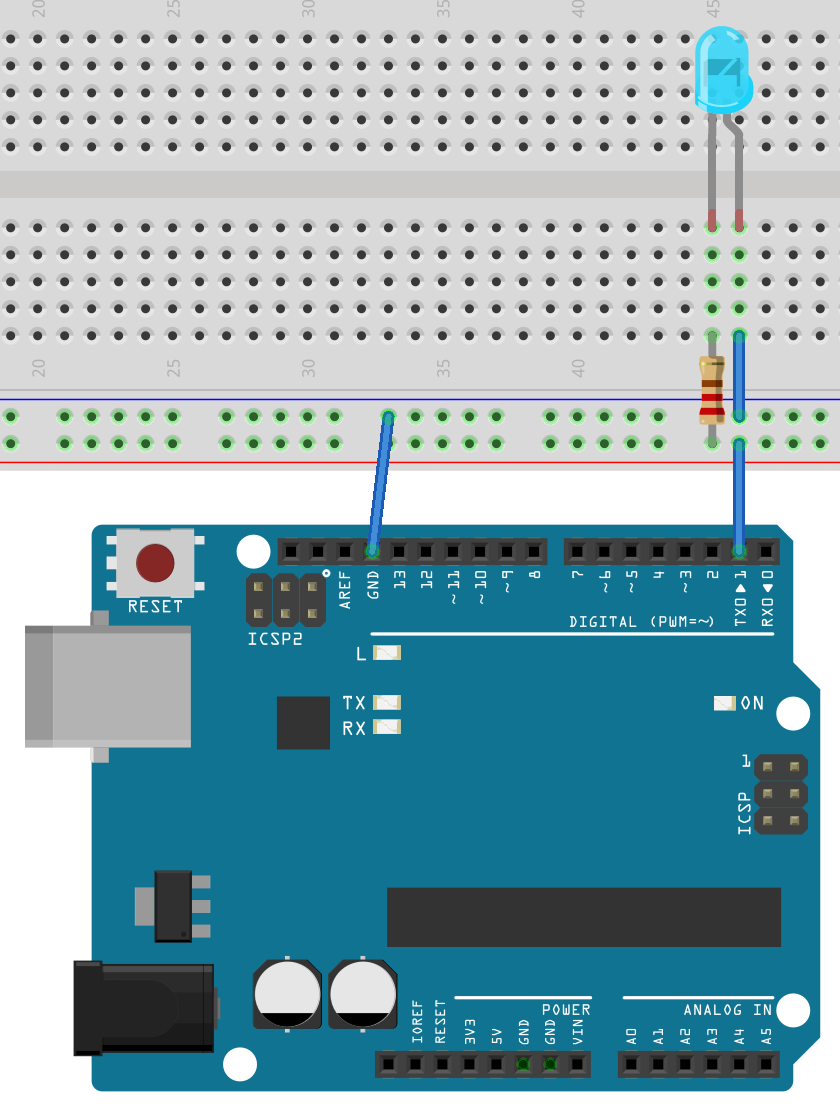
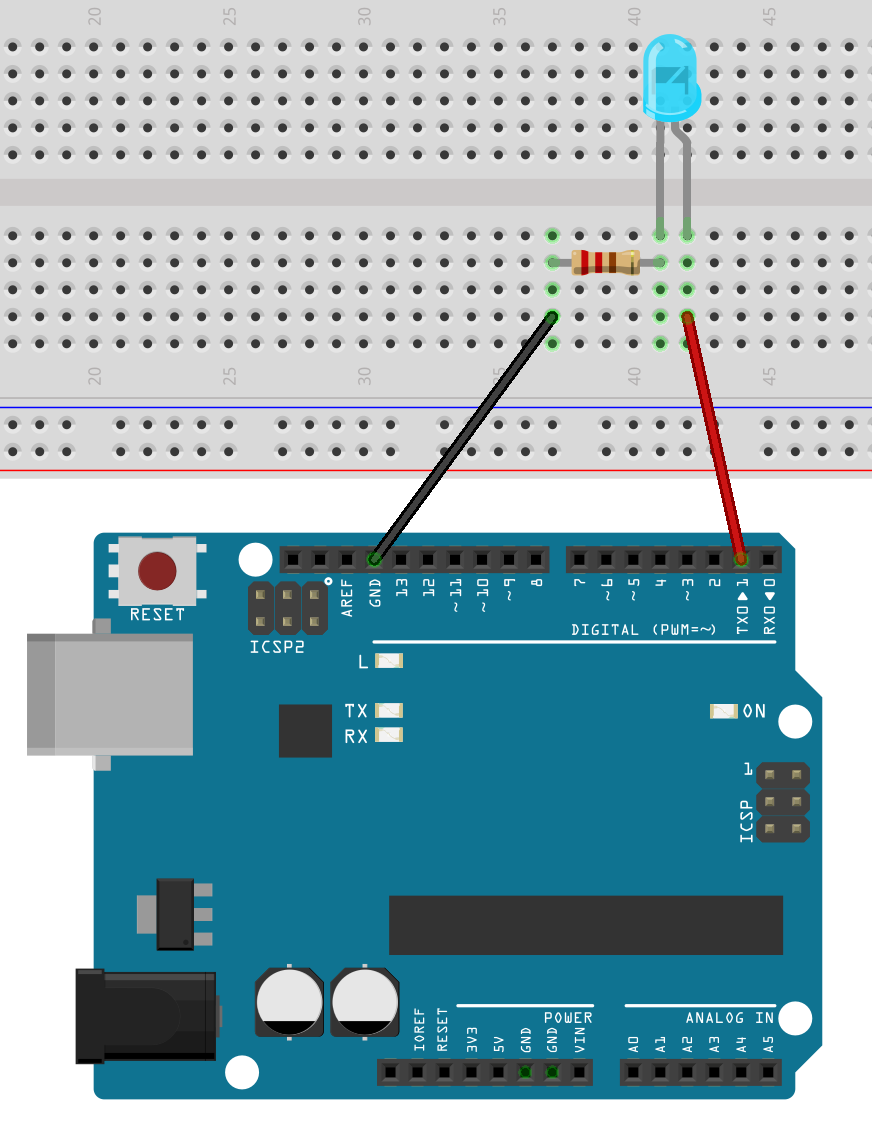
added img, moved fig

Changed region(s): [[0.0, 0.0, 1.0, 1.0], [0.031, 0.4603, 0.2476, 0.6751], [0.031, 0.6444, 0.0929, 0.6751]]

diff --git a/doc/tex/thesis/resultat.tex b/doc/tex/thesis/resultat.tex
@@ -15,6 +15,17 @@
 
         Den data som avses skickas i denna kommunikation består av ett 16 bitars värde, det vill säga två byte. Med en överföringshastighet om 300 baud ger det en teoretisk möjlighet att skicka $\frac{300 \,\textit{baud}}{8 \, bit \cdot 2} = 18,75 \, \text{värden per sekund}$. Den faktiska hastigheten blir något lägre då extra bitar skickas enligt RS-232 protokollet, men överföringshastigheten är inte att anses som ett hinder i denna implementation.
 
+        \begin{figure}[h]
+        \centering
+            \begin{subfigure}[hbt]{0.35\textwidth}
+                \includegraphics[width=\textwidth]{res/img/led}    
+            \end{subfigure}
+            \begin{subfigure}[hbt]{0.35\textwidth}
+                \includegraphics[width=\textwidth]{res/img/resistor}    
+            \end{subfigure}
+        \caption{Schema över sändare/mottagare}\label{fig:schem}
+        \end{figure}
+
 
     % subsection optisk_kommunikation (end)
     

diff --git a/doc/tex/thesis/res/appendix/schematics.tex b/doc/tex/thesis/res/appendix/schematics.tex
@@ -1,6 +1,14 @@
 \section{Schema} % (fold)
 \label{sec:schema}
-\begin{figure}
-    \includegraphics[width=0.5\textwidth]{res/img/led}
-\end{figure}
+    \begin{figure}
+    \centering
+        \begin{subfigure}{0.4\textwidth}
+            \includegraphics[width=\textwidth]{res/img/led}    
+        \end{subfigure}
+        \begin{subfigure}{0.4\textwidth}
+            \includegraphics[width=\textwidth]{res/img/resistor}    
+        \end{subfigure}
+        
+        \caption{Schema över sändare/mottagare}\label{fig:schem}
+    \end{figure}
 % section schema (end)

diff --git a/doc/tex/thesis/thesis.tex b/doc/tex/thesis/thesis.tex
@@ -218,5 +218,5 @@
 \input{res/appendix/algoritm_simulering}
 \include{res/appendix/algoritm_flowchart}
 \include{res/appendix/specs}
-\include{res/appendix/schematics}
+%\include{res/appendix/schematics}
 \end{document}
